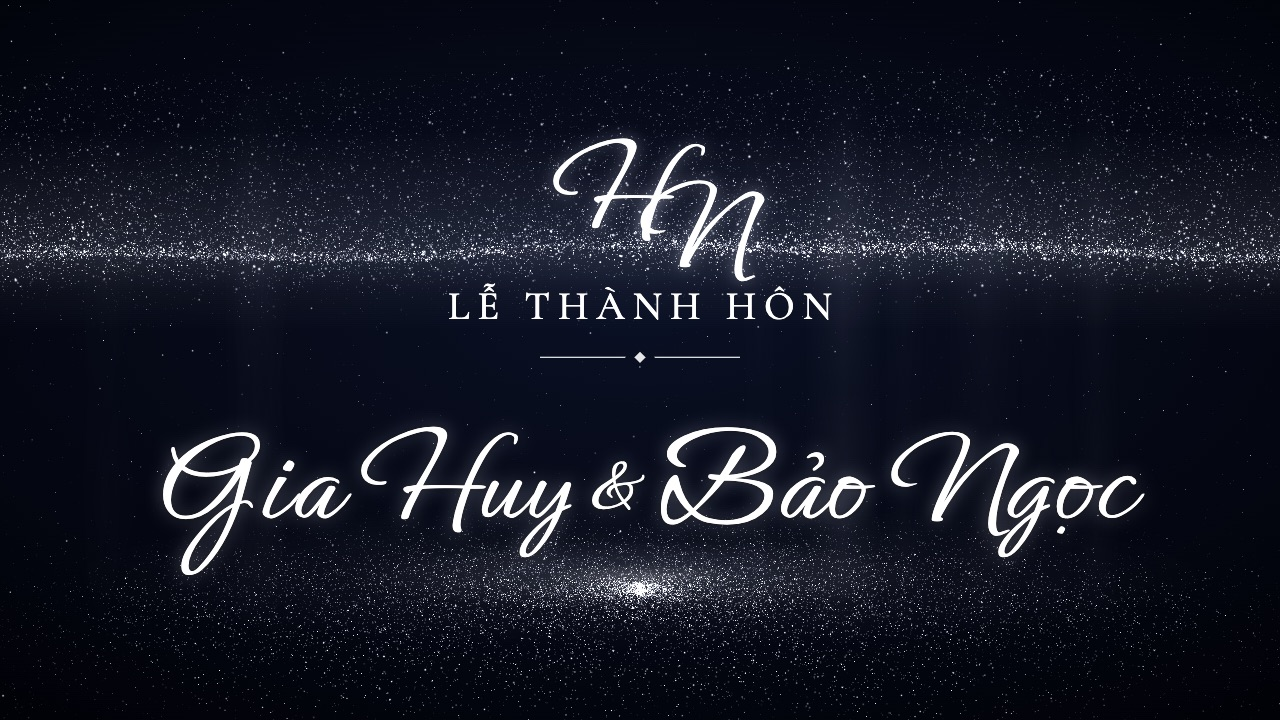
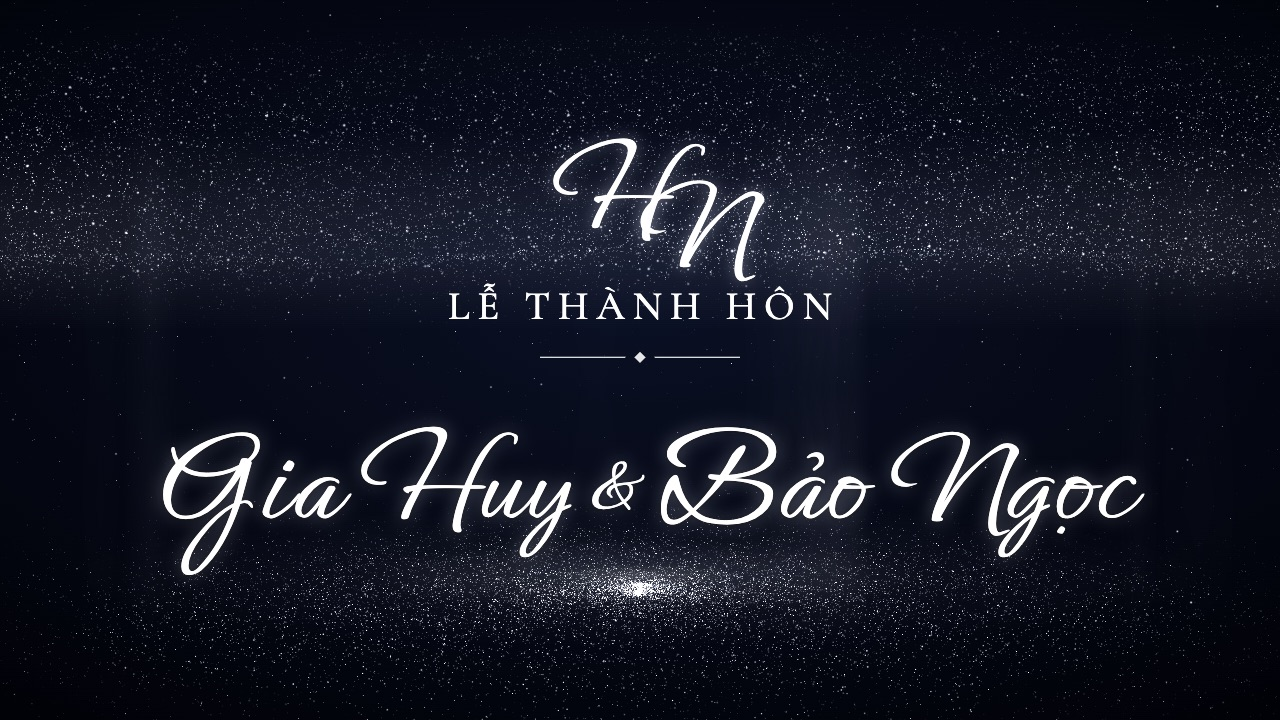
Màn LED "Đêm sao băng": dải trần không còn như một que sáng ngang — hạt trải đều hơn theo chiều cao dải, độ sáng giảm thoai thoải thay vì dồn đặc ở mép, mép trên và mép dưới đều tan dần; sương xanh nhạt hơn

diff --git a/public/led/led.js b/public/led/led.js
@@ -256,7 +256,7 @@
         // kim tuyến: 4 tấm đổi độ sáng lệch pha + trôi ngang rất chậm ngược chiều nhau → lấp lánh, có chiều sâu
         if (this.mode === 'saobang' && this.useGl) { // sương sáng xanh mờ phía sau dải kim tuyến trần, đậm nhất ngay trên mép dưới
           var y0 = H * 0.18, y1 = H * 0.46, gh = ctx.createLinearGradient(0, y0, 0, y1);
-          gh.addColorStop(0, rgba(pal.particle, 0)); gh.addColorStop(0.5, rgba(pal.particle, 0.1)); gh.addColorStop(0.62, rgba(pal.particle, 0.13)); gh.addColorStop(0.8, rgba(pal.particle, 0.04)); gh.addColorStop(1, rgba(pal.particle, 0));
+          gh.addColorStop(0, rgba(pal.particle, 0)); gh.addColorStop(0.4, rgba(pal.particle, 0.08)); gh.addColorStop(0.62, rgba(pal.particle, 0.09)); gh.addColorStop(0.85, rgba(pal.particle, 0.03)); gh.addColorStop(1, rgba(pal.particle, 0));
           ctx.globalAlpha = 0.85 + 0.15 * Math.sin(t * 0.3 * sp); ctx.fillStyle = gh; ctx.fillRect(0, y0, W, y1 - y0);
         }
         if (this.useGl && GLFX.gl) GLFX.draw(dt);
@@ -626,7 +626,7 @@
     VS_PTS: 'attribute vec4 aP;uniform float uT,uAsp,uPx;uniform vec3 uRip[8];uniform vec4 uRp;uniform vec3 uCen;uniform vec2 uSt;uniform vec3 uXf;uniform float uCeil;varying float vA;' +
       'void main(){float seed=aP.z;float tw=pow(0.5+0.5*sin(uT*(1.2+seed*3.7)+seed*61.0),3.0);' +
       'if(aP.w>4.5){gl_Position=vec4(aP.xy,0.0,1.0);float e=aP.y-0.3;float big=step(0.97,fract(seed*29.0));' +
-      'gl_PointSize=uPx*(2.0+3.8*fract(seed*7.3)*fract(seed*3.9)+big*4.0);float br=0.72+0.28*(0.5+0.5*sin(uT*0.35+aP.x*2.2+sin(uT*0.21+aP.x*1.3)*1.5));vA=(0.4+0.9*tw)*(0.4+1.2*exp(-max(e,0.0)*7.0)+big*0.5)*smoothstep(-0.2,0.03,e)*br;return;}' +
+      'gl_PointSize=uPx*(2.0+3.8*fract(seed*7.3)*fract(seed*3.9)+big*4.0);float br=0.72+0.28*(0.5+0.5*sin(uT*0.35+aP.x*2.2+sin(uT*0.21+aP.x*1.3)*1.5));vA=(0.4+0.9*tw)*(0.55+0.55*exp(-max(e,0.0)*2.2)+big*0.5)*smoothstep(-0.24,0.08,e)*smoothstep(0.75,0.35,e)*br;return;}' +
       'if(aP.w>2.5){vec2 q=vec2(uXf.x*aP.x+uXf.y*aP.y,-uXf.y*aP.x+uXf.x*aP.y)/uXf.z;gl_Position=vec4(q.x/uAsp,q.y,0.0,1.0);float dust=step(3.5,aP.w);float bg=step(0.975,fract(seed*29.0))*(1.0-dust);' +
       'gl_PointSize=uPx*(mix(2.0,1.5,dust)+mix(3.0,2.0,dust)*fract(seed*7.3)+bg*4.5);vA=(0.3+0.7*tw)*(0.7+0.6*fract(seed*3.1)+bg*0.6)*mix(1.0,0.75,dust);return;}' +
       'if(aP.w>1.5){gl_Position=vec4(aP.xy,0.0,1.0);float big=step(0.965,fract(seed*29.0));gl_PointSize=uPx*(1.3+2.2*fract(seed*7.3)+big*3.5);vA=(0.18+0.82*tw)*(0.55+0.45*fract(seed*3.1)+big*0.5);return;}' +
@@ -717,7 +717,7 @@
           for (i = 0; i < Math.round(24000 * dens); i++) {
             // mép dưới không thẳng tắp: lượn nhẹ theo chiều ngang; ~18% hạt rơi lấm tấm xuống dưới mép (thưa dần) → mép tự nhiên, không như bị cắt
             var bx = rnd(-1.02, 1.02), edge = 0.3 + 0.014 * Math.sin(bx * 3.7 + 0.8) + 0.008 * Math.sin(bx * 9.1 + 2.3);
-            a.push(bx, Math.random() < 0.18 ? edge + Math.log(Math.random() + 1e-4) * 0.045 : edge + Math.pow(Math.random(), 2.4) * 0.5 + (Math.random() - 0.5) * 0.02, Math.random(), 5);
+            a.push(bx, Math.random() < 0.2 ? edge + Math.log(Math.random() + 1e-4) * 0.06 : edge + Math.pow(Math.random(), 1.25) * 0.6 + (Math.random() - 0.5) * 0.06, Math.random(), 5);
           }
         } else disc(Math.round((this.mode === 'saoroi' ? 16000 : 24000) * dens), 1, 3.0); // trần (Đêm sao băng: dải trần dày, sáng)
         for (i = 0; i < Math.round(2600 * dens); i++) a.push(rnd(-1, 1), rnd(-1, 1), Math.random(), 2); // sao rải khắp trời
